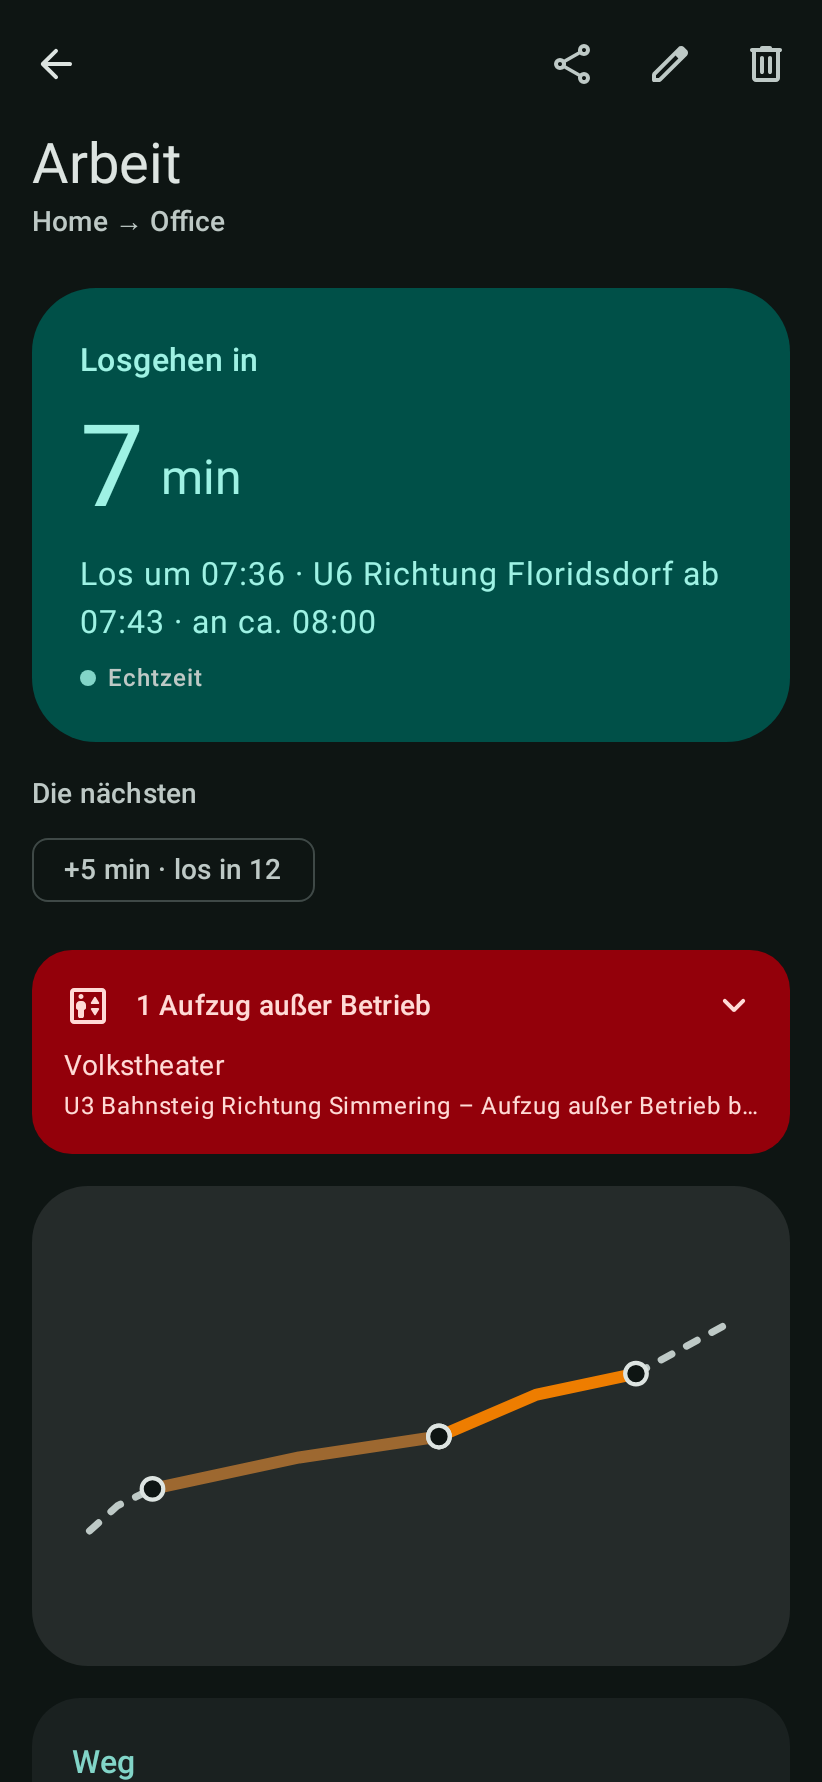
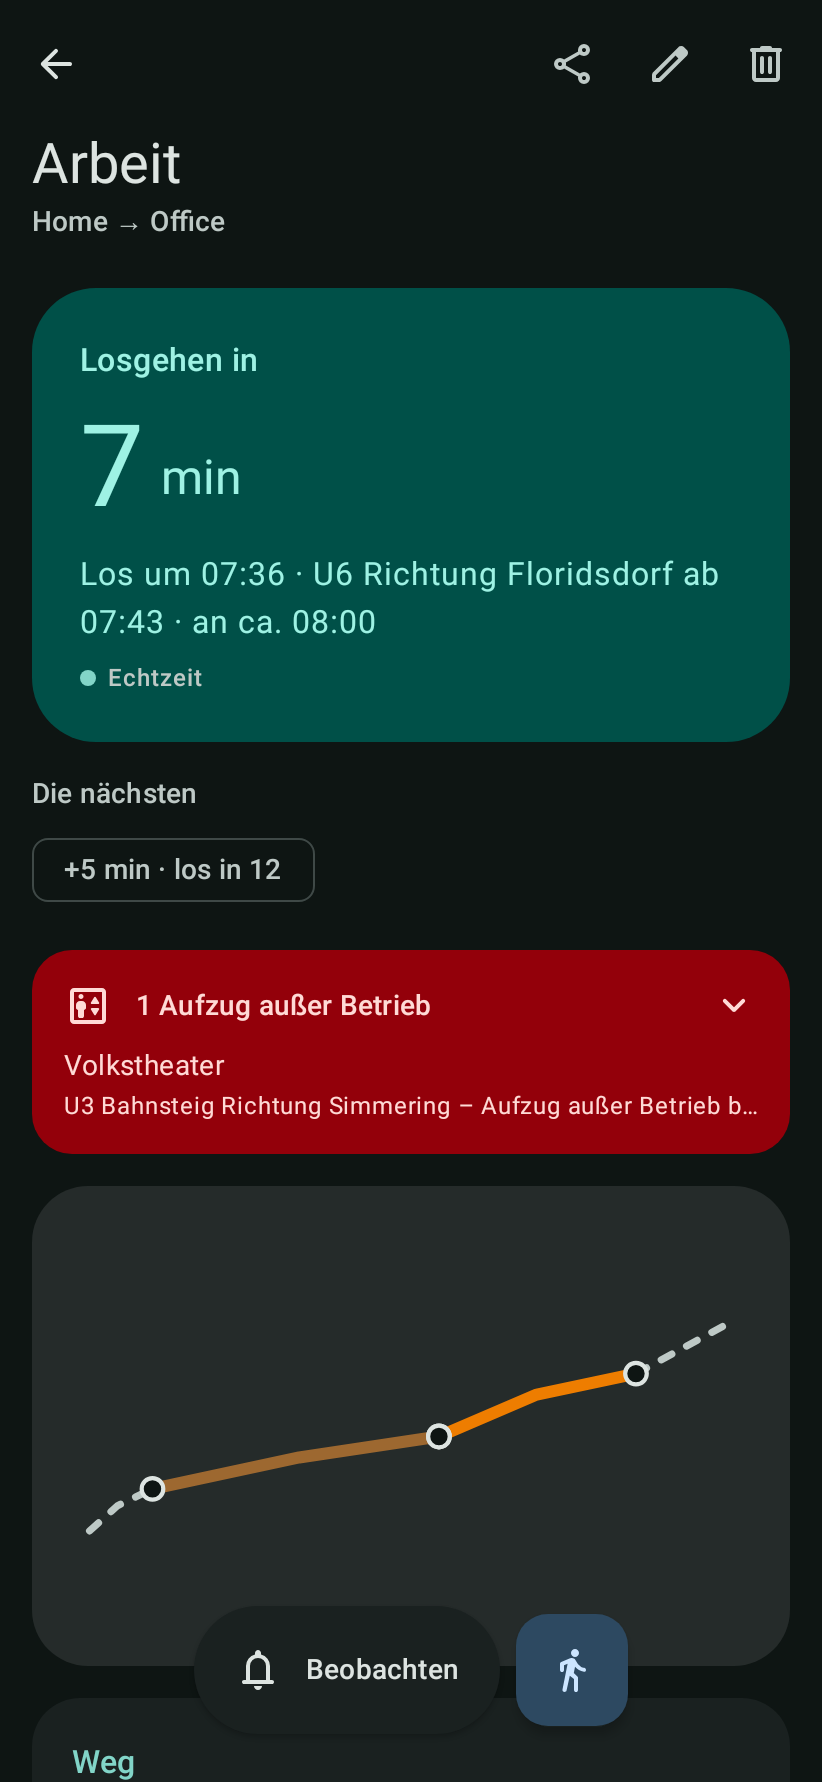
test(app): monitoring state tests and re-recorded screenshots

Changed region(s): [[0.6083, 0.8951, 0.7908, 0.9877], [0.365, 0.9259, 0.5474, 0.9568], [0.3041, 0.9259, 0.3345, 0.9568]]

diff --git a/app/src/test/kotlin/app/brokoli5191/zeitig/monitor/MonitorPrefsTest.kt b/app/src/test/kotlin/app/brokoli5191/zeitig/monitor/MonitorPrefsTest.kt
@@ -1,0 +1,82 @@
+package app.brokoli5191.zeitig.monitor
+
+import android.app.Application
+import androidx.test.core.app.ApplicationProvider
+import androidx.test.ext.junit.runners.AndroidJUnit4
+import org.junit.Test
+import org.junit.runner.RunWith
+import org.robolectric.annotation.Config
+import java.time.Duration
+import java.time.Instant
+import kotlin.test.assertEquals
+import kotlin.test.assertFalse
+import kotlin.test.assertTrue
+
+@RunWith(AndroidJUnit4::class)
+@Config(application = Application::class)
+class MonitorPrefsTest {
+    private val prefs = MonitorPrefs(ApplicationProvider.getApplicationContext())
+    private val t0 = Instant.parse("2026-11-23T06:30:00Z")
+
+    @Test
+    fun `a stop holds for the running window and releases the next one`() {
+        val windowStart = t0
+        assertTrue(prefs.allows(1, windowStart))
+
+        prefs.stopAll(t0 + Duration.ofMinutes(10))
+
+        assertFalse(prefs.allows(1, windowStart), "window that began before the stop")
+        assertFalse(prefs.allows(2, windowStart), "a stop covers every route")
+        assertTrue(prefs.allows(1, windowStart + Duration.ofDays(1)), "tomorrow's window")
+    }
+
+    @Test
+    fun `unwatching mutes only that route for its current window`() {
+        prefs.watch(1, t0)
+        prefs.watch(2, t0)
+
+        prefs.unwatch(1, t0 + Duration.ofMinutes(5))
+
+        assertEquals(setOf(2L), prefs.watched(t0 + Duration.ofMinutes(5)))
+        assertFalse(prefs.allows(1, t0))
+        assertTrue(prefs.allows(2, t0))
+    }
+
+    @Test
+    fun `watched routes expire after three hours`() {
+        prefs.watch(7, t0)
+
+        assertEquals(setOf(7L), prefs.watched(t0 + Duration.ofHours(2)))
+        assertEquals(emptySet(), prefs.watched(t0 + Duration.ofHours(3)))
+    }
+
+    @Test
+    fun `stopping everything clears the watch list and an own stop only clears it`() {
+        prefs.watch(3, t0)
+        prefs.stopAll(t0 + Duration.ofMinutes(1))
+        assertEquals(emptySet(), prefs.watched(t0 + Duration.ofMinutes(1)))
+
+        prefs.watch(4, t0 + Duration.ofMinutes(2))
+        prefs.clearWatched()
+        assertEquals(emptySet(), prefs.watched(t0 + Duration.ofMinutes(2)))
+        assertTrue(prefs.allows(4, t0 + Duration.ofMinutes(3)), "the service ending by itself is no user stop")
+    }
+
+    @Test
+    fun `disruptions are announced once while they last`() {
+        assertEquals(setOf("a", "b"), prefs.unannounced(listOf("a", "b"), t0))
+        assertEquals(setOf("c"), prefs.unannounced(listOf("a", "b", "c"), t0 + Duration.ofMinutes(30)))
+        // Still active every day for two weeks: never announced again.
+        for (day in 1L..14L) {
+            assertEquals(emptySet(), prefs.unannounced(listOf("a"), t0 + Duration.ofDays(day)))
+        }
+        assertEquals(emptySet(), prefs.unannounced(emptyList(), t0))
+    }
+
+    @Test
+    fun `a disruption unseen for more than a week counts as new`() {
+        prefs.unannounced(listOf("lift"), t0)
+
+        assertEquals(setOf("lift"), prefs.unannounced(listOf("lift"), t0 + Duration.ofDays(8)))
+    }
+}
